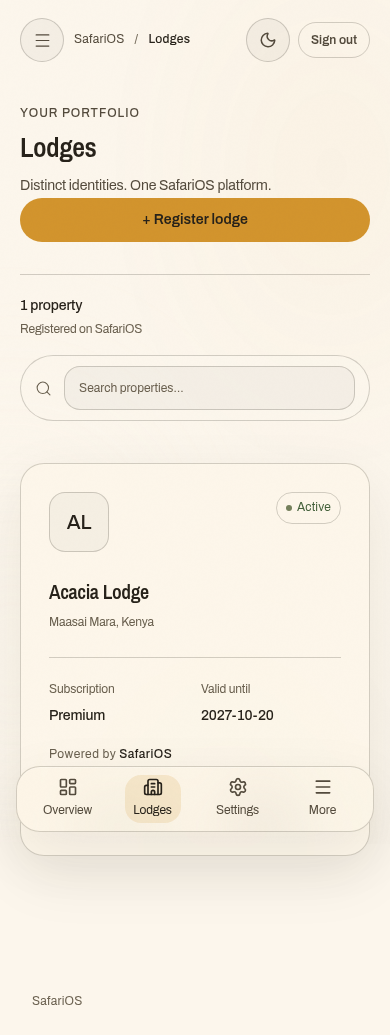
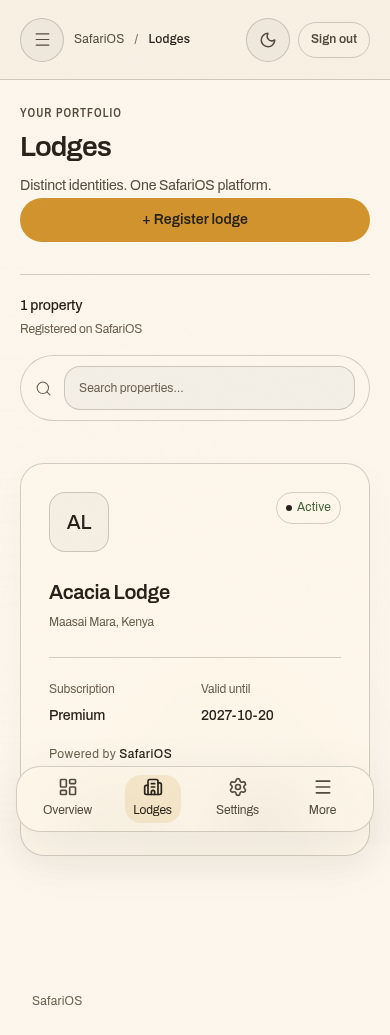
Align SafariOS with cream reference and bold sans typography

diff --git a/apps/web/app/design-system.css b/apps/web/app/design-system.css
@@ -1464,8 +1464,8 @@ button {
   --transition-slow: 0.5s ease;
   --font-body:
     "Archivo", -apple-system, BlinkMacSystemFont, "Segoe UI", sans-serif;
-  --font-heading: "Archivo Narrow", "Archivo", sans-serif;
-  --font-display: "Fraunces", Georgia, serif;
+  --font-heading: "Archivo", -apple-system, sans-serif;
+  --font-display: "Archivo", -apple-system, sans-serif;
   --bg-base: var(--color-brown);
   --surface-glass: rgba(252, 246, 236, 0.08);
   --text-primary: var(--color-beige);
@@ -1508,6 +1508,9 @@ button {
   --text-secondary: #534a3c;
   --text-muted: #6a604f;
   --text-accent: var(--color-brown);
+  --ac: var(--text-accent);
+  --ac2: var(--text-accent);
+  --acText: var(--color-brown);
   --success: #45613b;
   --warning: #76531c;
   --danger: #a34432;
@@ -2870,4 +2873,70 @@ textarea:focus-visible {
   background: var(--color-orange);
 }
 /* Initials sit on nested glass; use reading colors rather than decorative accents. */
-.avatar,.avatarButton,.lodgeLogo,.propertyLogo,.logoPreview{color:var(--tx)}
+.avatar,
+.avatarButton,
+.lodgeLogo,
+.propertyLogo,
+.logoPreview {
+  color: var(--tx);
+}
+
+/* Screenshot direction: cream canvas, confident sans-serif type, restrained frost. */
+:root[data-theme="light"] .surfaceBackdrop i {
+  opacity: 0;
+  animation: none;
+}
+:root[data-theme="light"] .topbar {
+  background: rgba(243, 237, 226, 0.65);
+  backdrop-filter: blur(24px) saturate(160%);
+  border-bottom: 1px solid var(--color-brown-20);
+}
+:root[data-theme="light"] .panel,
+:root[data-theme="light"] .propertyCard,
+:root[data-theme="light"] .metricCard,
+:root[data-theme="light"] .authCard {
+  box-shadow: 0 12px 32px rgba(39, 34, 26, 0.035);
+}
+.pageHeader h1,
+.authStatement h1 {
+  font-family: var(--font-heading) !important;
+  font-weight: 600 !important;
+  letter-spacing: -0.035em !important;
+}
+.authStatement h1 {
+  font-size: 56px !important;
+  line-height: 1.04 !important;
+  max-width: 600px;
+}
+.eyebrow,
+.navSection,
+.panelKicker,
+.platformBadge > span {
+  font-family: "Archivo Narrow", "Archivo", sans-serif;
+  font-weight: 600;
+}
+.metricCard strong,
+.statValue,
+.metricValue,
+.ringCenter strong {
+  font-family: var(--font-body);
+  font-weight: 600;
+  letter-spacing: -0.035em;
+}
+.authStoryInner {
+  padding-top: 48px;
+  padding-bottom: 48px;
+}
+.authStatement p {
+  color: var(--tx);
+  max-width: 440px;
+}
+@media (max-width: 640px) {
+  .authStatement h1 {
+    font-size: 40px !important;
+  }
+  .authStoryInner {
+    padding-top: 32px;
+    padding-bottom: 32px;
+  }
+}

diff --git a/apps/web/app/layout.tsx b/apps/web/app/layout.tsx
@@ -4,7 +4,6 @@ import "@fontsource/archivo/400.css";
 import "@fontsource/archivo/500.css";
 import "@fontsource/archivo/600.css";
 import "@fontsource/archivo-narrow/600.css";
-import "@fontsource/fraunces/600.css";
 import "./globals.css";
 import "./design-system.css";
 
@@ -20,12 +19,12 @@ export default function RootLayout({
   children: React.ReactNode;
 }) {
   return (
-    <html lang="en" data-theme="dark" suppressHydrationWarning>
+    <html lang="en" data-theme="light" suppressHydrationWarning>
       <head>
         <script
           dangerouslySetInnerHTML={{
             __html:
-              "try{document.documentElement.dataset.theme=localStorage.getItem('theme')==='light'?'light':'dark'}catch(e){}",
+              "try{document.documentElement.dataset.theme=localStorage.getItem('theme')==='dark'?'dark':'light'}catch(e){}",
           }}
         />
       </head>

diff --git a/apps/web/tailwind.config.ts b/apps/web/tailwind.config.ts
@@ -6,8 +6,9 @@ export default {
     extend: {
       fontFamily: {
         sans: ["Archivo", "-apple-system", "sans-serif"],
-        heading: ["Archivo Narrow", "Archivo", "sans-serif"],
-        display: ["Fraunces", "Georgia", "serif"],
+        heading: ["Archivo", "-apple-system", "sans-serif"],
+        label: ["Archivo Narrow", "Archivo", "sans-serif"],
+        display: ["Archivo", "-apple-system", "sans-serif"],
       },
       colors: {
         beige: "var(--color-beige)",

diff --git a/apps/web/components/ThemeToggle.tsx b/apps/web/components/ThemeToggle.tsx
@@ -2,9 +2,9 @@
 import { useEffect, useState } from "react";
 import { Sun, Moon } from "lucide-react";
 export default function ThemeToggle() {
-  const [dark, setDark] = useState(true);
+  const [dark, setDark] = useState(false);
   useEffect(() => {
-    setDark(document.documentElement.dataset.theme !== "light");
+    setDark(document.documentElement.dataset.theme === "dark");
   }, []);
   function toggle() {
     const d = !dark;

diff --git a/docs/UI_UX_DESIGN_SYSTEM.md b/docs/UI_UX_DESIGN_SYSTEM.md
@@ -1,6 +1,8 @@
 # SafariOS brand and translucent design system
 
-The owner-supplied palette is the source of truth for every screen and future component. Lodge identity remains visible alongside SafariOS; role and tenant permissions are unchanged.
+The supplied screenshot guides the visual direction: a cream canvas, dark brown text, confident sans-serif headlines, and restrained frosted navigation. The owner-supplied palette is the source of truth for every screen and future component. Lodge identity remains visible alongside SafariOS; role and tenant permissions are unchanged.
+
+![SafariOS default cream interface](screenshots/safarios-lodges-light.png)
 
 ## Foundations
 
@@ -15,17 +17,17 @@ The owner-supplied palette is the source of truth for every screen and future co
 | `--color-brown-20` | `rgba(39,34,26,0.2)` | `brown-20` |
 | `--color-beige-20` | `rgba(252,246,236,0.2)` | `beige-20` |
 
-Dark mode uses brown background, beige text, glass `rgba(252,246,236,.08)`, and beige-20 borders. Light uses beige background, brown text, glass `rgba(252,246,236,.6)`, and brown-20 borders. Both use blur 24px and saturation 160%. The saved theme is restored before paint; dark remains the default.
+Dark mode uses brown background, beige text, glass `rgba(252,246,236,.08)`, and beige-20 borders. Light uses beige background, brown text, glass `rgba(252,246,236,.6)`, and brown-20 borders. Both use blur 24px and saturation 160%. Light is the default, matching the supplied cream reference. A valid saved dark/light preference is restored before paint.
 
 Primary buttons are solid orange with brown text in both themes. Active selections, focus glow, chart accents, and numerical highlights use orange. Small text on beige must remain brown. Reading accents therefore use `--text-accent` (orange in dark mode, brown in light); large figures retain an orange underline in light mode to preserve contrast. Muted success, warning, danger, and info colors use sage, ochre, clay, and gray-green, with darker text variants in light mode. Evaluate contrast against the composited surface, not just the background token.
 
-A low-opacity, heavily blurred mesh uses orange, beige, and a lighter brown. Reduced-motion preferences disable its drift. Browsers without backdrop filtering receive solid theme surfaces. Avoid unrelated colored glows or purple gradients.
+The default light canvas stays flat cream, matching the supplied screenshot. Frosted navigation uses a muted translucent gray-beige surface. The optional dark theme retains a low-opacity warm mesh; reduced-motion preferences disable its drift. Browsers without backdrop filtering receive solid theme surfaces. Avoid unrelated colored glows or purple gradients.
 
 ## Typography and shape
 
-Headings: Archivo Narrow, weight 600, tracking -0.02em. Body and controls: Archivo, weights 400/500/600. Display: Fraunces 600 only for hero titles and large numbers. No licensed Swizzy Trial font was provided, so the requested Fraunces fallback is bundled locally. Fonts do not require a third-party runtime request.
+Headings and hero titles: Archivo 600, with tight tracking and a bold sans-serif silhouette matching the supplied screenshot. Body and controls: Archivo, weights 400/500/600. Compact uppercase section labels use Archivo Narrow 600. Display numbers use Archivo 600. There are no serif display faces. Fonts are bundled locally and do not require a third-party runtime request.
 
-Section labels and tags use uppercase text and tracking 0.08em. The shared scale is 12/14/16/20/28/40/56px. CSS font tokens are `--font-body`, `--font-heading`, `--font-display`; Tailwind families are `font-sans`, `font-heading`, `font-display`.
+Section labels and tags use uppercase text and tracking 0.08em. The shared scale is 12/14/16/20/28/40/56px. CSS font tokens are `--font-body`, `--font-heading`, `--font-display`; Tailwind families are `font-sans`, `font-heading`, `font-display`, and `font-label`.
 
 Radius tokens are sm 12px, md 16px, lg 24px for cards, xl 28px for dialogs, and pill 9999px for buttons/chips. CSS uses `--radius-*`; Tailwind exposes the same names plus semantic aliases `card`, `modal`, and `input`. Transitions use fast 0.2s ease, base 0.3s ease, slow 0.5s ease. Framer Motion supplies springs for larger page/dialog movements and honors reduced motion.
 
@@ -45,8 +47,8 @@ Every new screen must use the shared shell and semantic tokens. Keep visible foc
 
 Browser tests cover existing account isolation plus theme persistence, collapse state, mobile drawers, keyboard command search, inline branding validation, reduced motion, and horizontal overflow. Screenshot fixtures use mocked frontend records for review only; they do not create production data.
 
-- [Dark lodge portfolio](screenshots/safarios-lodges.png)
-- [Light lodge portfolio](screenshots/safarios-lodges-light.png)
+- [Default cream lodge portfolio](screenshots/safarios-lodges-light.png)
+- [Optional dark lodge portfolio](screenshots/safarios-lodges.png)
 - [Mobile portfolio](screenshots/safarios-lodges-mobile.png)
 - [Branding dialog](screenshots/safarios-branding.png)
 - [Lodge dashboard](screenshots/safarios-workspace.png)

diff --git a/apps/web/AGENTS.md b/apps/web/AGENTS.md
@@ -3,7 +3,7 @@
 Apply the shared warm-neutral, translucent design system to every new or edited screen. Read `../../docs/UI_UX_DESIGN_SYSTEM.md` before introducing a new visual pattern.
 
 - Use the exact owner-supplied beige `#FCF6EC`, gray `#F3EDE2`, brown `#27221A`, and orange `#D2942D` palette. Orange buttons always have brown text. Never use orange as small text on beige; use the semantic reading tokens. The shared low-opacity mesh may use orange, beige, and lighter brown only.
-- Use Archivo Narrow 600 for headings and Archivo for body/UI. Fraunces is the display fallback for hero titles and large figures; do not use it for ordinary headings or controls. No Swizzy Trial license was provided.
+- Match the supplied visual reference: default cream/light canvas, dark brown reading text, bold Archivo 600 sans-serif headings and figures, Archivo UI, and Archivo Narrow uppercase labels. Do not reintroduce serif hero or number styling. Preserve explicit saved theme preferences and keep dark mode available.
 - Reuse the shared radius, typography, and transition tokens; keep glass blur at 24px and saturation at 160%.
 - Use the semantic tokens in `app/design-system.css` and `tailwind.config.ts`. Do not introduce another palette or hardcode opaque backgrounds in page components. Reading text must use accessible reading tokens rather than decorative muted/accent swatches.
 - Reuse `components/ui`, `Drawer`, `WorkspaceCommand`, `DataViz`, and the existing guarded shells. Extend shared components when a new pattern is needed so both themes and other screens inherit it.

diff --git a/README.md b/README.md
@@ -93,7 +93,7 @@ This build fixes the API startup NameError caused by workflow request schemas be
 
 ## v1.7 Premium UI / UX refresh
 
-The current web application uses the SafariOS brand system: exact beige/brown/orange palette, translucent blur, solid orange actions with brown text, Archivo controls, Archivo Narrow headings, Fraunces display figures, and a persisted light theme. Dashboards use real operational data. See [the shared design system](docs/UI_UX_DESIGN_SYSTEM.md) for component APIs and current screenshots.
+The current web application uses the SafariOS brand system: exact beige/brown/orange palette, translucent blur, solid orange actions with brown text, Archivo controls and bold sans-serif headings/figures, Archivo Narrow labels, and a cream light theme by default with saved dark-mode support. Dashboards use real operational data. See [the shared design system](docs/UI_UX_DESIGN_SYSTEM.md) for component APIs and current screenshots.
 
 Key UX additions:
 - responsive premium navigation with mobile drawer
